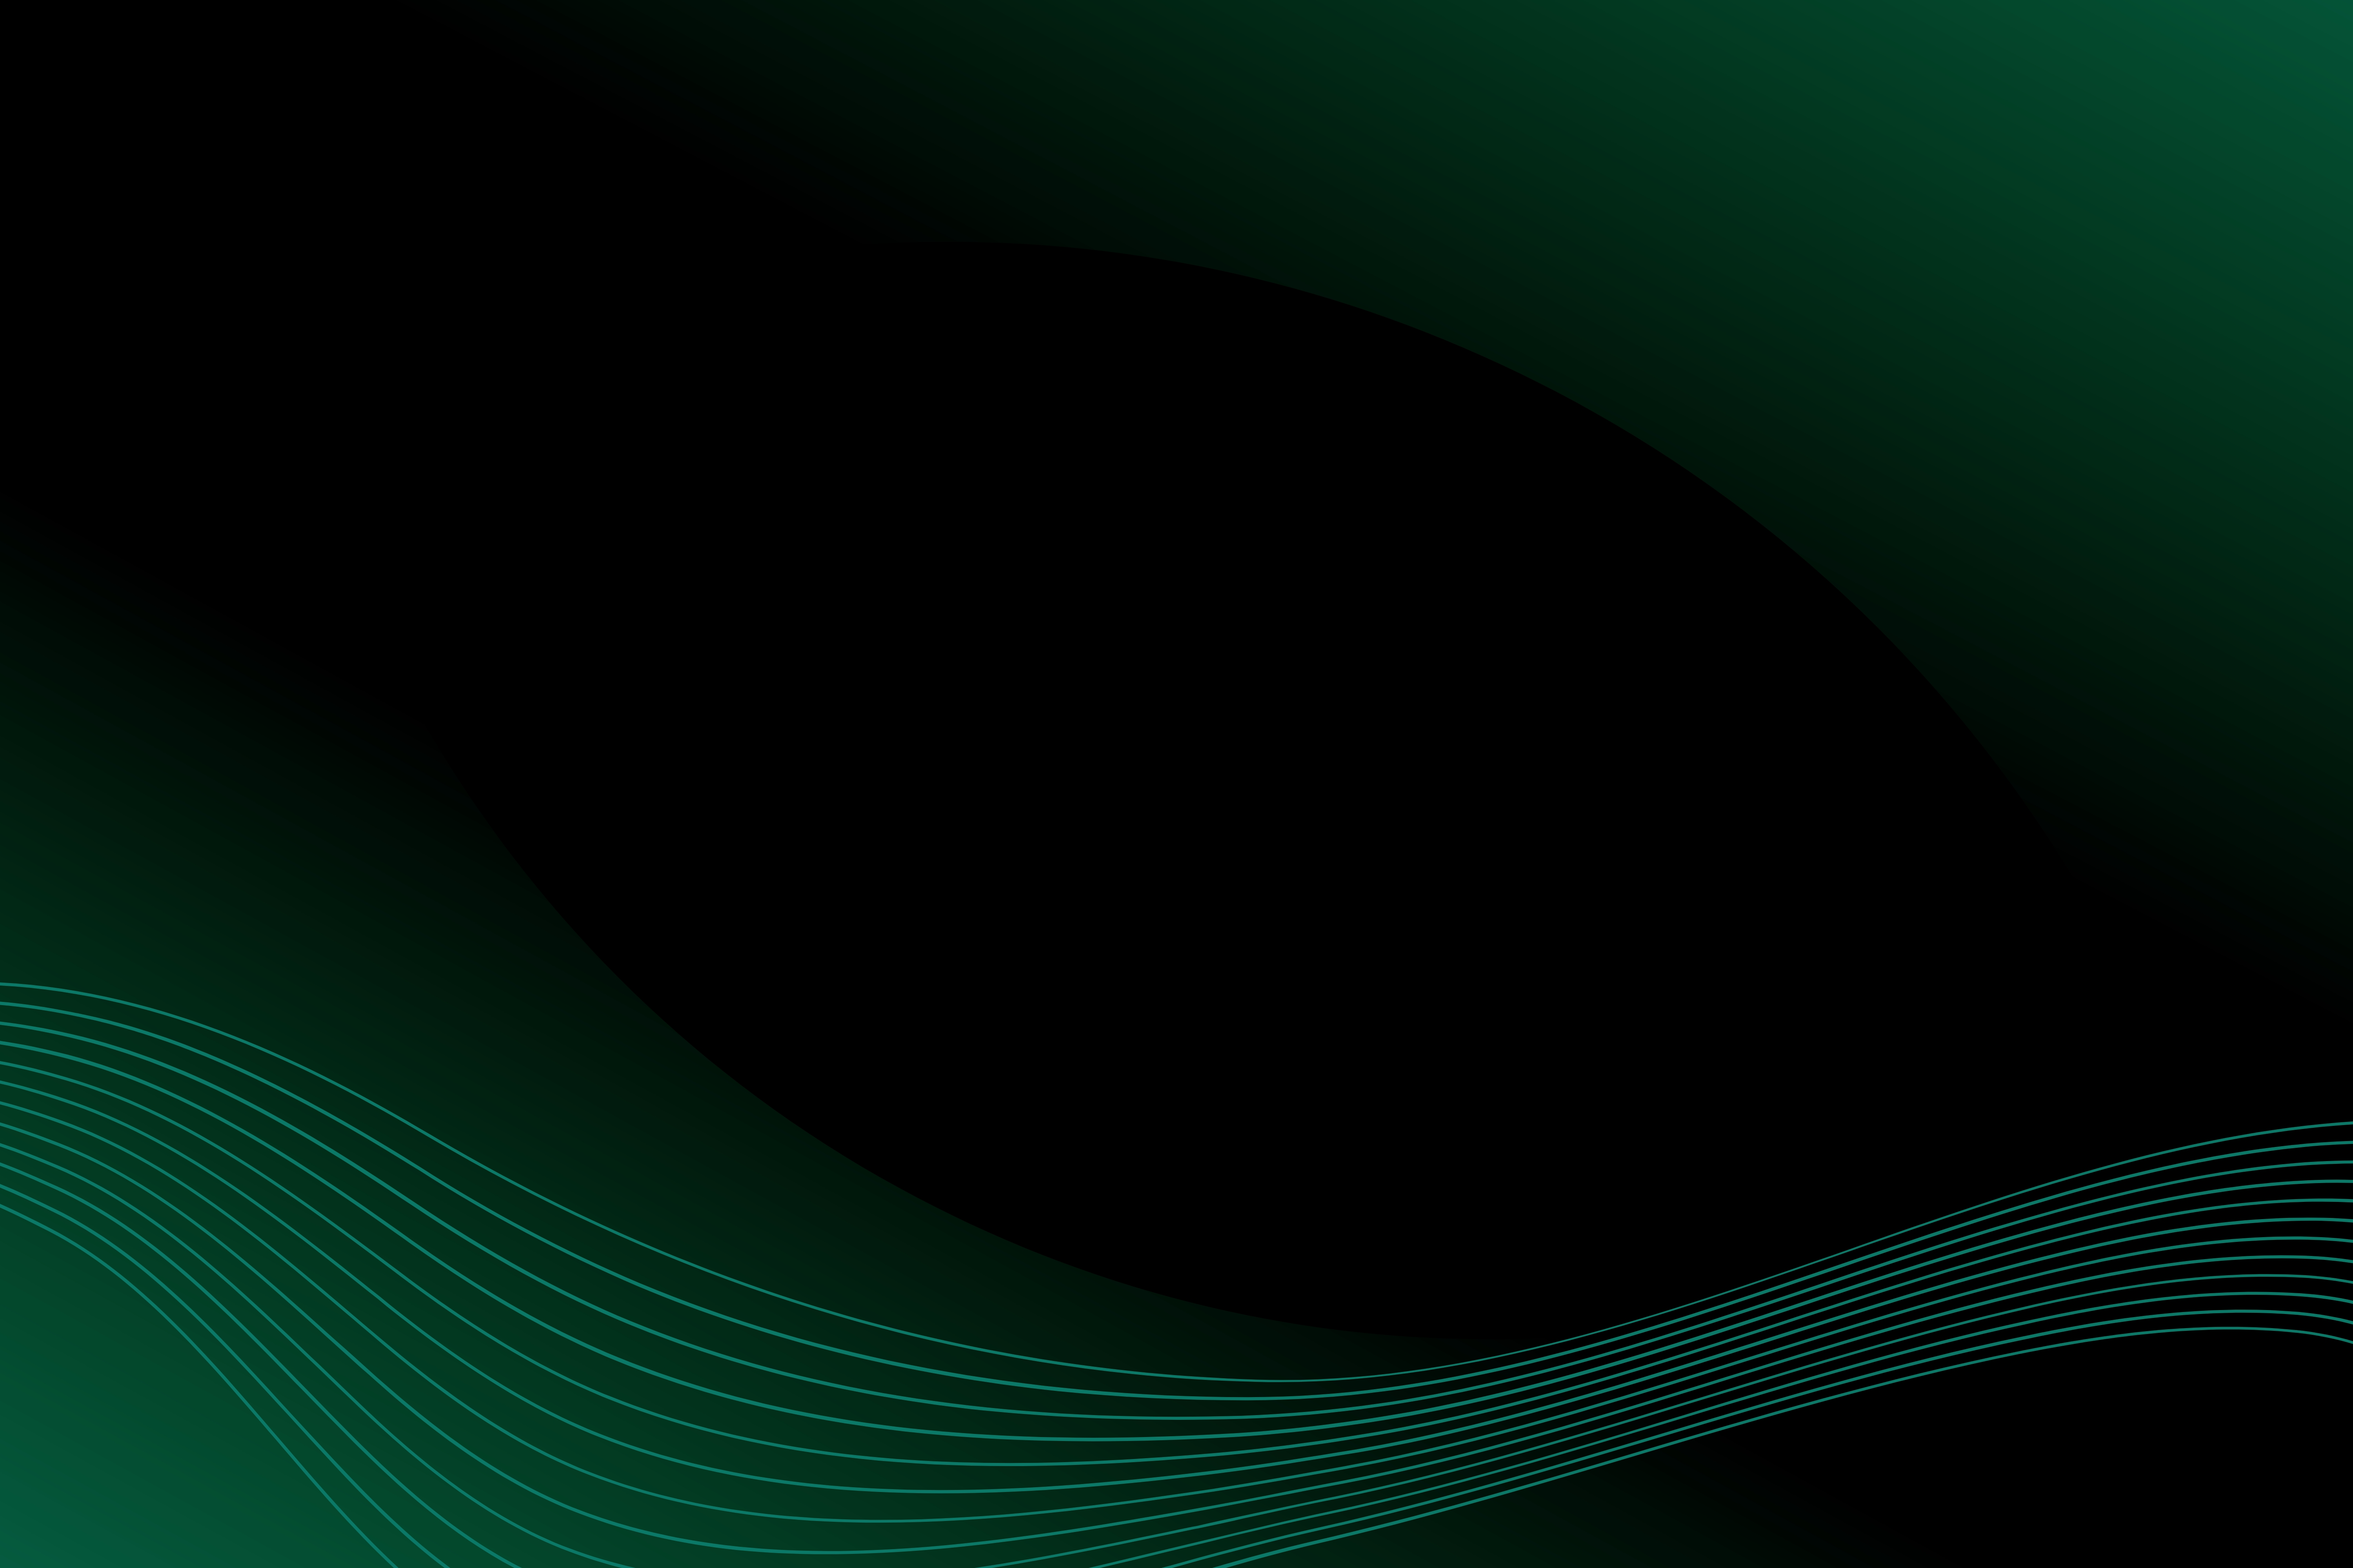
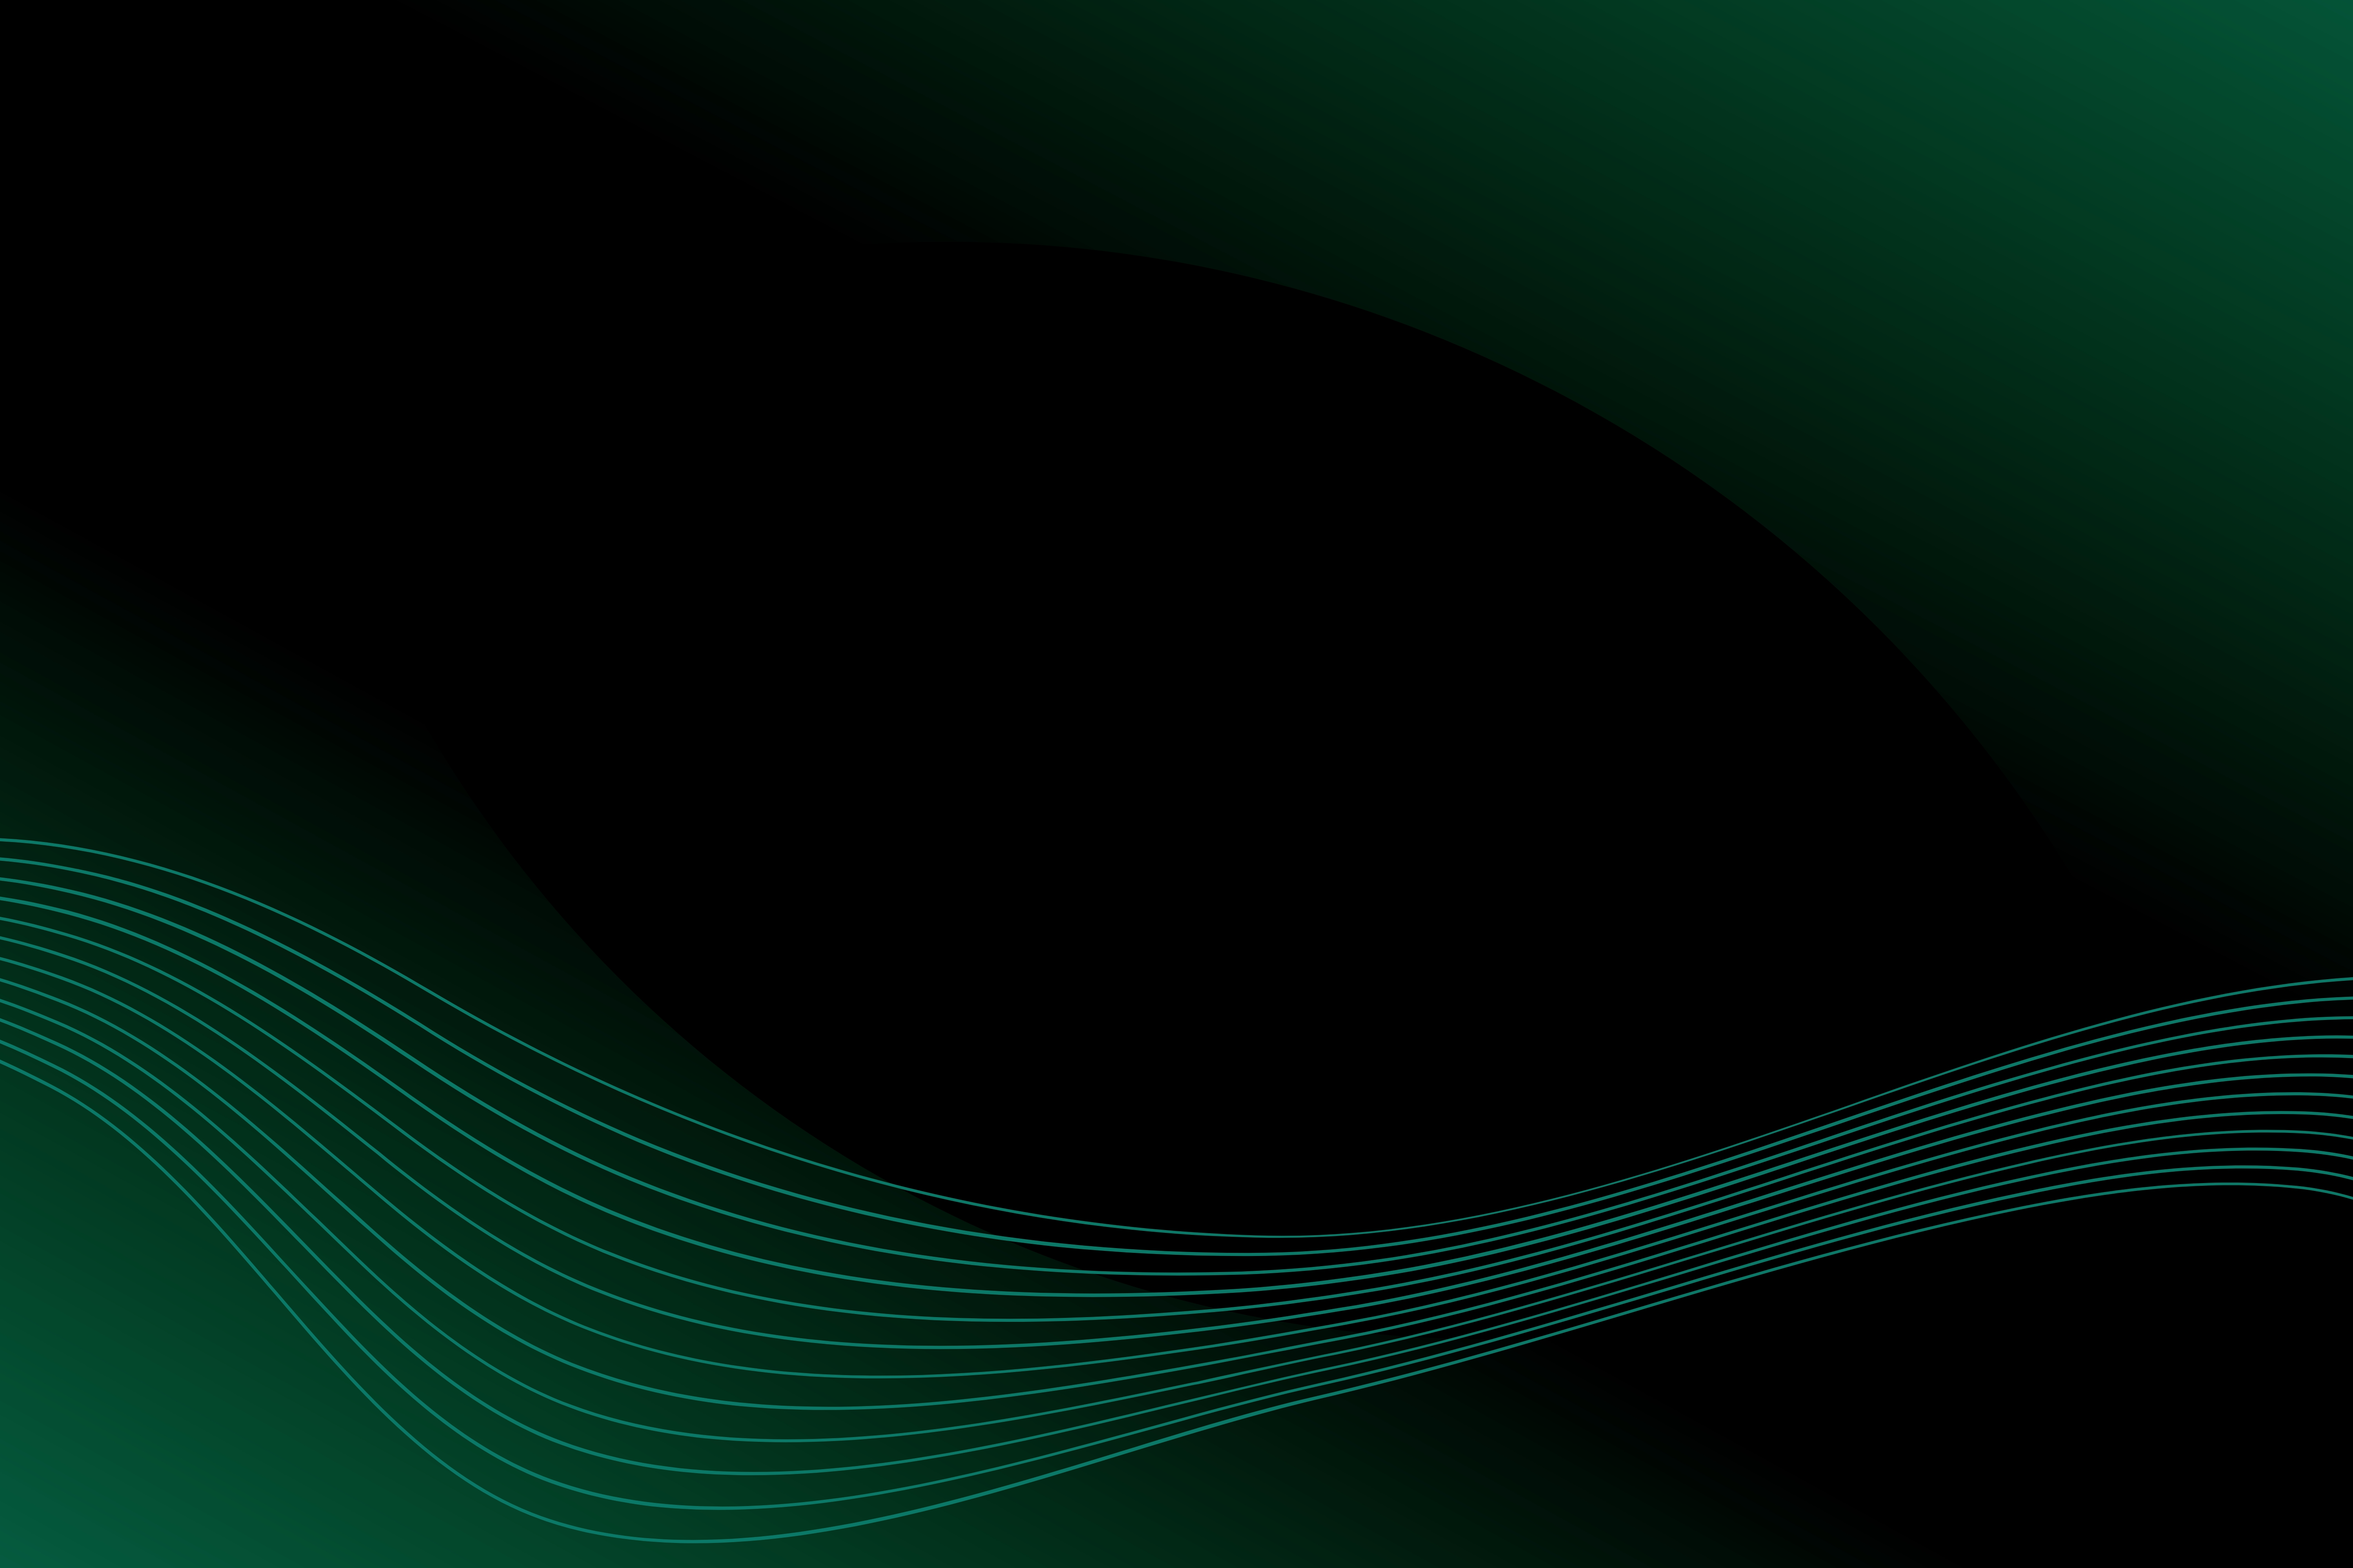
Started the About Me Section

Changed region(s): [[0.0, 0.5312, 1.0, 1.0]]

diff --git a/index.html b/index.html
@@ -1,5 +1,6 @@
 <html>
     <head>
+        <!-- Title Section -->
         <title>Kieron's Website!</title>
         <link rel="stylesheet" href="style.css">
     </head>
@@ -14,13 +15,27 @@
                     <li><a href="#">Resume</a></li>
                 </ul>
             </div>
-
+        <!-- Content and Title Section -->
             <div class="content">
                 <h1>HEY THERE!<br>I AM KIERON</h1>
                 <p>Welcome to my Website</p>
                 <div>
+        <!-- Buttons -->
                     <button type="button"><span></span>LINKEDIN</button>
                     <button type="button"><span></span>GITHUB</button>
+                </div>
+            </div>
+        <!-- About Me Section -->
+            <div id="about">
+                <div class="container">
+                    <div class="row">
+                        <div class="about-col-1">
+                            <img src="Images/Professional profile photo.JPEG">
+                        </div>
+                        <div class="about-col-2">
+                            <h1>About Me</h1>
+                        </div>
+                    </div>
                 </div>
             </div>
         </div>

diff --git a/style.css b/style.css
@@ -5,7 +5,7 @@
 }
 .banner{
     width: 100%;
-    height: 100vh;
+    height: 200vh;
     background-image:linear-gradient(rgba(0,0,0,0.75),rgba(0,0,0,0.75)),url(Images/background.jpg);
     background-size: cover;
     background-position: center;
@@ -95,4 +95,28 @@ button:hover span{
 }
 button:hover{
     border: none;
+}
+
+/* About Section */
+
+#about{
+    padding: 80px 0;
+    color: #fff;
+}
+.about-col-1 img {
+    width: 350px; 
+    height: 350px; 
+    border-radius: 50%;  
+    margin-top: 420px;
+    margin-left: 180px;
+}
+.about-col-2 h1{
+    font-size: 36px;
+    margin-top: 420px;
+    margin-right: 730px;
+}
+.row{
+    display: flex;
+    justify-content: space-between;
+    flex-wrap: wrap;
 }
